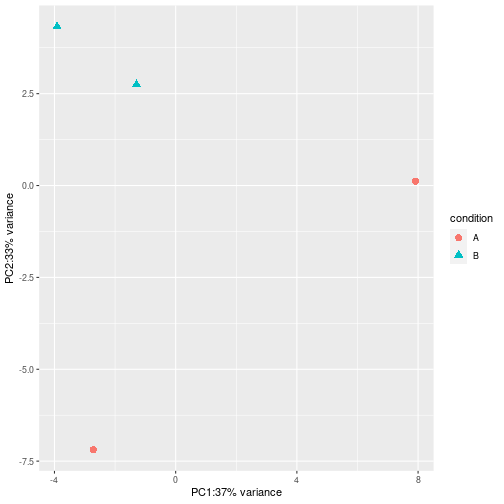
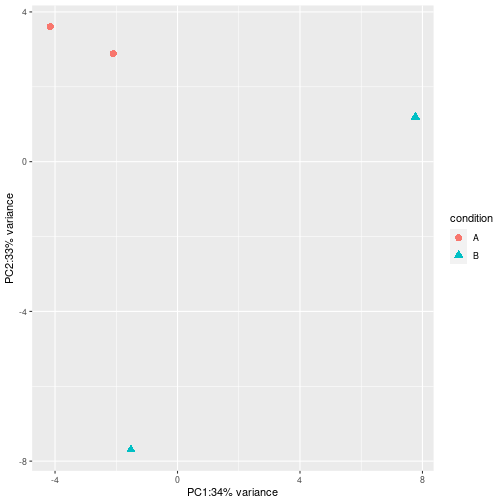
inst/

diff --git a/inst/Bioconductor/README.md b/inst/Bioconductor/README.md
@@ -51,18 +51,32 @@ eKEGG <- enricher(gene = , TERM2GENE = kegg_t2g,
 ## Differential expression
 
 
-```
+```r
+suppressMessages(library(DESeq2))
+ex <- makeExampleDESeqDataSet(m=4)
+dds <- DESeq(ex)
 #> estimating size factors
 #> estimating dispersions
 #> gene-wise dispersion estimates
 #> mean-dispersion relationship
 #> final dispersion estimates
 #> fitting model and testing
+res <- results(dds, contrast=c("condition","B","A"))
+rld <- rlogTransformation(ex, blind=TRUE)
+dat <- plotPCA(rld, intgroup=c("condition"),returnData=TRUE)
+percentVar <- round(100 * attr(dat,"percentVar"))
+suppressMessages(library(ggplot2))
+ggplot(dat, aes(PC1, PC2, color=condition, shape=condition)) +
+geom_point(size=3) +
+xlab(paste0("PC1:",percentVar[1],"% variance")) +
+ylab(paste0("PC2:",percentVar[2],"% variance"))
 ```
 
 ![plot of chunk DESeq2](figures/DESeq2-1.png)
 
-```
+```r
+ex$condition <- relevel(ex$condition, ref="B")
+dds2 <- DESeq(dds)
 #> using pre-existing size factors
 #> estimating dispersions
 #> found already estimated dispersions, replacing these
@@ -70,6 +84,8 @@ eKEGG <- enricher(gene = , TERM2GENE = kegg_t2g,
 #> mean-dispersion relationship
 #> final dispersion estimates
 #> fitting model and testing
+res <- results(dds2)
+write.csv(as.data.frame(res),file="A_vs_B.csv")
 ```
 
 ## Meta-data
